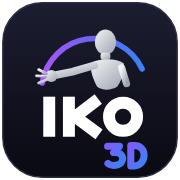
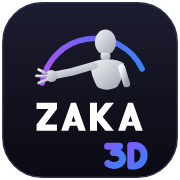
Rename IKO 3D to Zaka 3D
Everywhere the name is shown: page titles and social cards, the
header, landing, privacy, terms and 404 pages, the cookie notice, the
WebGL message, export metadata (glTF scene and clip names, the STL
header), the MCP server's text, README and docs.

Logo: ZAKA drawn as filled shapes in the master SVG
(public/brand/zaka-logo.svg, was iko-logo.svg); the app icons and
header PNGs are rendered from it. public/og.jpg keeps its sketch, with
the new logo, name and tagline.

Unchanged on purpose: storage keys (iko3d-*, iko-cookie-consent), env
vars (IKO_BLENDER, IKO_AUTORIG) and the X-IKO-Rig header. Renaming
them would lose every device's saved sculptures, creatures and
settings, and the server's configuration. public/brand/IKO.jpeg (the
original artwork, unused) is kept.

Changed region(s): [[0.1944, 0.5278, 0.8056, 0.7778]]

diff --git a/app/terms/page.tsx b/app/terms/page.tsx
@@ -2,16 +2,16 @@ import type { Metadata } from "next";
 import Link from "next/link";
 
 export const metadata: Metadata = {
-  title: "Terms of use — IKO 3D",
+  title: "Terms of use — Zaka 3D",
   description:
-    "The terms for using IKO 3D: a free, no-account browser studio for lighting, posing and animating 3D characters.",
+    "The terms for using Zaka 3D: a free, no-account browser studio for lighting, posing and animating 3D characters.",
 };
 
 export default function TermsPage() {
   return (
     <main className="min-h-dvh bg-ink-950 text-ink-100">
       <div className="mx-auto max-w-3xl px-4 py-12 sm:px-6">
-        <p className="text-sm font-medium text-accent">IKO 3D</p>
+        <p className="text-sm font-medium text-accent">Zaka 3D</p>
         <h1 className="mt-2 text-3xl font-semibold">Terms of use</h1>
         <p className="mt-2 text-sm text-ink-400">
           Last updated: 16 November 2026
@@ -19,7 +19,7 @@ export default function TermsPage() {
 
         <section className="mt-8 space-y-4 text-base leading-relaxed text-ink-300">
           <p>
-            IKO 3D is a free, no-account studio for lighting, posing, and
+            Zaka 3D is a free, no-account studio for lighting, posing, and
             animating 3D characters in your browser. By using it, you agree to
             these terms.
           </p>
@@ -28,7 +28,7 @@ export default function TermsPage() {
             The service
           </h2>
           <p>
-            IKO 3D is provided &ldquo;as is&rdquo;, without warranties of any
+            Zaka 3D is provided &ldquo;as is&rdquo;, without warranties of any
             kind. It runs entirely in your browser: there is no backend storing
             your work, so we cannot recover a scene you lose, and the service
             may change or stop at any time.
@@ -50,10 +50,10 @@ export default function TermsPage() {
             Acceptable use
           </h2>
           <p>
-            Don&apos;t use IKO 3D to break the law, to harass or deceive anyone,
-            or to interfere with the service for others. Share links reproduce
-            the scene they carry, so don&apos;t share a link to content you
-            don&apos;t want others to see.
+            Don&apos;t use Zaka 3D to break the law, to harass or deceive
+            anyone, or to interfere with the service for others. Share links
+            reproduce the scene they carry, so don&apos;t share a link to
+            content you don&apos;t want others to see.
           </p>
 
           <h2 className="pt-4 text-xl font-semibold text-ink-100">
@@ -73,7 +73,7 @@ export default function TermsPage() {
           </Link>
           {" · "}
           <Link href="/" className="hover:text-ink-100 hover:underline">
-            Back to IKO 3D
+            Back to Zaka 3D
           </Link>
         </p>
       </div>

diff --git a/app/page.tsx b/app/page.tsx
@@ -7,11 +7,11 @@ import { ProcessVideo } from "@/components/landing/ProcessVideo";
 import { studioRedirectTarget } from "@/lib/studio/landing-redirect";
 
 export const metadata: Metadata = {
-  title: "IKO 3D — Light, pose and animate 3D characters",
+  title: "Zaka 3D — Light, pose and animate 3D characters",
   description:
     "A studio for lighting, posing and animating 3D figures. Real Three.js light, presets a photographer would recognise, and share links that reproduce the whole scene. No accounts, no uploads, nothing to install.",
   openGraph: {
-    title: "IKO 3D — Light, pose and animate 3D characters",
+    title: "Zaka 3D — Light, pose and animate 3D characters",
     description:
       "Light, pose and animate 3D characters — right in your browser.",
     images: [
@@ -19,7 +19,7 @@ export const metadata: Metadata = {
         url: "/og.jpg",
         width: 1200,
         height: 630,
-        alt: "IKO 3D — light, pose and animate 3D characters in your browser",
+        alt: "Zaka 3D — light, pose and animate 3D characters in your browser",
       },
     ],
   },
@@ -71,13 +71,13 @@ export default async function LandingPage({
         <header className="flex items-center gap-2 py-4">
           {/* eslint-disable-next-line @next/next/no-img-element -- a 28 px static logo */}
           <img
-            src="/brand/iko-logo-128.png"
+            src="/brand/zaka-logo-128.png"
             alt=""
             width={28}
             height={28}
             className="h-7 w-7 shrink-0"
           />
-          <span className="text-sm font-semibold">IKO 3D</span>
+          <span className="text-sm font-semibold">Zaka 3D</span>
           <nav aria-label="Sections" className="ml-auto flex gap-4 text-sm">
             <Link
               href="/sculpt"
@@ -99,7 +99,7 @@ export default async function LandingPage({
           className="grid items-center gap-8 py-8 sm:py-12 lg:grid-cols-2"
         >
           <div>
-            <p className="text-sm font-medium text-accent">IKO 3D</p>
+            <p className="text-sm font-medium text-accent">Zaka 3D</p>
             <h1
               id="landing-hero"
               className="mt-2 text-3xl font-semibold leading-tight sm:text-4xl"
@@ -224,7 +224,7 @@ export default async function LandingPage({
 
         <footer className="border-t border-ink-800 py-8 text-sm text-ink-400">
           <p>
-            IKO 3D — no accounts, no backend, free. The pose finder runs
+            Zaka 3D — no accounts, no backend, free. The pose finder runs
             entirely in your browser.
           </p>
           <p className="mt-2">

diff --git a/mcp/server.ts b/mcp/server.ts
@@ -1,4 +1,4 @@
-/** IKO 3D's MCP server: lets an AI (Claude, or a local model in an
+/** Zaka 3D's MCP server: lets an AI (Claude, or a local model in an
  * MCP client) read and direct a studio scene with the studio's own
  * actions. Speaks MCP over stdio; started by the client with
  * `node mcp/start.mjs` (see docs/mcp-server.md).
@@ -21,7 +21,7 @@ import { callTool, listTools, type ToolContext } from "./tools";
 
 const ROOT = join(dirname(fileURLToPath(import.meta.url)), "..");
 
-export const INSTRUCTIONS = `You are directing a scene in IKO 3D, a 3D studio for lighting, posing and animating figures.
+export const INSTRUCTIONS = `You are directing a scene in Zaka 3D, a 3D studio for lighting, posing and animating figures.
 Start with "scene" to see what's there. "catalog" lists ids (lighting presets, poses, moves, joints, materials, backdrops, characters). "find_motion" turns words into a move. "direct" writes a figure's performance as beats, one per line; "act" applies any studio action. Every change is an undo step ("undo", "history").
 Distances are metres on a floor from -3 to 3: x runs left to right as the camera sees it, z towards the camera. Rotation 0 faces the camera, 90 faces +x (right), -90 faces -x, 180 faces away. The default view frames about x -1 to 1. A move that travels takes the figure with it (find_motion says how far; the scene says where each figure ends): leave room. Joint angles are degrees from the A-pose.
 When the scene is ready, "share_link" gives a link that opens it in the studio: give it to the person.
@@ -57,7 +57,7 @@ export async function main() {
   const pkg = JSON.parse(await readFile(join(ROOT, "package.json"), "utf8"));
 
   const server = new Server(
-    { name: "iko3d-studio", title: "IKO 3D studio", version: pkg.version },
+    { name: "iko3d-studio", title: "Zaka 3D studio", version: pkg.version },
     { capabilities: { tools: {} }, instructions: INSTRUCTIONS },
   );
   const tools = listTools();
@@ -77,6 +77,6 @@ export async function main() {
 
   await server.connect(new StdioServerTransport());
   console.error(
-    `IKO 3D MCP server ready: ${tools.length} tools, links to ${ctx.studioUrl}`,
+    `Zaka 3D MCP server ready: ${tools.length} tools, links to ${ctx.studioUrl}`,
   );
 }

diff --git a/app/privacy/page.tsx b/app/privacy/page.tsx
@@ -2,16 +2,16 @@ import type { Metadata } from "next";
 import Link from "next/link";
 
 export const metadata: Metadata = {
-  title: "Privacy policy — IKO 3D",
+  title: "Privacy policy — Zaka 3D",
   description:
-    "How IKO 3D handles your data: everything stays on your device, no accounts, no uploads, and analytics only with your consent.",
+    "How Zaka 3D handles your data: everything stays on your device, no accounts, no uploads, and analytics only with your consent.",
 };
 
 export default function PrivacyPage() {
   return (
     <main className="min-h-dvh bg-ink-950 text-ink-100">
       <div className="mx-auto max-w-3xl px-4 py-12 sm:px-6">
-        <p className="text-sm font-medium text-accent">IKO 3D</p>
+        <p className="text-sm font-medium text-accent">Zaka 3D</p>
         <h1 className="mt-2 text-3xl font-semibold">Privacy policy</h1>
         <p className="mt-2 text-sm text-ink-400">
           Last updated: 16 November 2026
@@ -19,7 +19,7 @@ export default function PrivacyPage() {
 
         <section className="mt-8 space-y-4 text-base leading-relaxed text-ink-300">
           <p>
-            IKO 3D is a creative tool that runs entirely in your browser. There
+            Zaka 3D is a creative tool that runs entirely in your browser. There
             are no accounts, no sign-in, no backend, and nothing you make is
             uploaded to a server.
           </p>
@@ -58,7 +58,7 @@ export default function PrivacyPage() {
 
           <h2 className="pt-4 text-xl font-semibold text-ink-100">Cookies</h2>
           <p>
-            IKO 3D sets no cookies itself. Your cookie-consent choice is
+            Zaka 3D sets no cookies itself. Your cookie-consent choice is
             remembered in your browser&apos;s local storage, not in a cookie.
           </p>
 
@@ -79,7 +79,7 @@ export default function PrivacyPage() {
           </Link>
           {" · "}
           <Link href="/" className="hover:text-ink-100 hover:underline">
-            Back to IKO 3D
+            Back to Zaka 3D
           </Link>
         </p>
       </div>

diff --git a/app/layout.tsx b/app/layout.tsx
@@ -12,33 +12,33 @@ const inter = Inter({
 });
 
 const description =
-  "IKO 3D: light, pose and animate 3D mannequins in the browser. Studio lights and presets, typed poses and moves, keyframes, share links, image and video export.";
+  "Zaka 3D: light, pose and animate 3D mannequins in the browser. Studio lights and presets, typed poses and moves, keyframes, share links, image and video export.";
 
 export const metadata: Metadata = {
   // Placeholder until the real Vercel URL is known (R-15); set via
   // NEXT_PUBLIC_SITE_URL. Never a guessed URL.
   metadataBase: new URL(siteUrl),
-  title: "IKO 3D",
+  title: "Zaka 3D",
   description,
   openGraph: {
-    title: "IKO 3D — Light, pose and animate 3D characters",
+    title: "Zaka 3D — Light, pose and animate 3D characters",
     description:
       "Light, pose and animate 3D characters — right in your browser.",
     url: siteUrl,
-    siteName: "IKO 3D",
+    siteName: "Zaka 3D",
     type: "website",
     images: [
       {
         url: "/og.jpg",
         width: 1200,
         height: 630,
-        alt: "IKO 3D — light, pose and animate 3D characters in your browser",
+        alt: "Zaka 3D — light, pose and animate 3D characters in your browser",
       },
     ],
   },
   twitter: {
     card: "summary_large_image",
-    title: "IKO 3D — Light, pose and animate 3D characters",
+    title: "Zaka 3D — Light, pose and animate 3D characters",
     description:
       "Light, pose and animate 3D characters — right in your browser.",
     images: ["/og.jpg"],

diff --git a/mcp/tools.ts b/mcp/tools.ts
@@ -328,7 +328,7 @@ const STUDIO_TOOLS: Tool[] = [
     name: "share_link",
     title: "Link to open the scene in the studio",
     description:
-      "A link that opens this scene in the IKO 3D studio, with its animation when it fits in a link. Give it to the person to see the result.",
+      "A link that opens this scene in the Zaka 3D studio, with its animation when it fits in a link. Give it to the person to see the result.",
     input: z.object({}),
     readOnly: true,
     run: async (session, _args, ctx) => {
@@ -346,7 +346,7 @@ const STUDIO_TOOLS: Tool[] = [
     name: "open_link",
     title: "Open a studio share link",
     description:
-      "Load a scene from an IKO 3D share link (the whole URL, or its s= value), as one undo step.",
+      "Load a scene from an Zaka 3D share link (the whole URL, or its s= value), as one undo step.",
     input: z.object({ link: z.string().trim().min(1).max(20000) }),
     run: async (session, { link }) => {
       let param: string | null = link;

diff --git a/components/CookieConsent.tsx b/components/CookieConsent.tsx
@@ -94,7 +94,7 @@ export default function CookieConsent() {
               Cookie preferences
             </p>
             <p className="mt-1 text-sm leading-relaxed text-ink-300">
-              IKO 3D sets no cookies itself. The only optional tracker is
+              Zaka 3D sets no cookies itself. The only optional tracker is
               Plausible analytics — cookieless, no cross-site tracking — and it
               loads only if you switch it on below.
             </p>
@@ -129,7 +129,7 @@ export default function CookieConsent() {
         ) : (
           <>
             <p className="text-sm leading-relaxed text-ink-100">
-              IKO 3D sets no cookies itself. We use Plausible — cookieless
+              Zaka 3D sets no cookies itself. We use Plausible — cookieless
               analytics with no cross-site tracking — only if you accept.{" "}
               <a href="/privacy" className="text-accent underline">
                 Privacy policy

diff --git a/components/WorkspaceNav.tsx b/components/WorkspaceNav.tsx
@@ -63,21 +63,21 @@ export function BrandLink() {
   return (
     <Link
       href="/"
-      aria-label="IKO 3D home"
+      aria-label="Zaka 3D home"
       title="Home"
       className="flex shrink-0 items-center gap-2 rounded-md p-0.5 hover:bg-ink-800"
       data-testid="nav-home"
     >
       {/* eslint-disable-next-line @next/next/no-img-element -- a 28 px static logo */}
       <img
-        src="/brand/iko-logo-128.png"
+        src="/brand/zaka-logo-128.png"
         alt=""
         width={28}
         height={28}
         className="h-7 w-7"
       />
       <span className="hidden text-sm font-semibold tracking-tight text-ink-100 lg:inline">
-        IKO 3D
+        Zaka 3D
       </span>
     </Link>
   );

diff --git a/app/studio/page.tsx b/app/studio/page.tsx
@@ -2,9 +2,9 @@ import type { Metadata } from "next";
 import { LightingStudio } from "@/components/studio/LightingStudio";
 
 export const metadata: Metadata = {
-  title: "Studio — IKO 3D",
+  title: "Studio — Zaka 3D",
   description:
-    "The IKO 3D studio: light, pose and animate 3D mannequins in the browser. Studio lights and presets, typed poses and moves, keyframes, share links, image and video export.",
+    "The Zaka 3D studio: light, pose and animate 3D mannequins in the browser. Studio lights and presets, typed poses and moves, keyframes, share links, image and video export.",
 };
 
 export default function StudioPage() {

diff --git a/lib/engine/gltfExport.ts b/lib/engine/gltfExport.ts
@@ -137,7 +137,7 @@ export async function exportGlb(
   opts: GlbOptions,
 ): Promise<GlbResult> {
   const scene = new THREE.Scene();
-  scene.name = "IKO 3D";
+  scene.name = "Zaka 3D";
   /** Live object → its clone in the file, for the animation. */
   const pairs: Array<[THREE.Object3D, THREE.Object3D]> = [];
   for (const f of src.figures) {
@@ -273,7 +273,7 @@ export async function exportGlb(
     }
     if (tracks.length)
       animations.push(
-        new THREE.AnimationClip("IKO 3D animation", times[frames - 1], tracks),
+        new THREE.AnimationClip("Zaka 3D animation", times[frames - 1], tracks),
       );
   }
 

diff --git a/app/sculpt/page.tsx b/app/sculpt/page.tsx
@@ -2,9 +2,9 @@ import type { Metadata } from "next";
 import { SculptStudio } from "@/components/sculpt/SculptStudio";
 
 export const metadata: Metadata = {
-  title: "Sculpt — IKO 3D",
+  title: "Sculpt — Zaka 3D",
   description:
-    "Sculpt digital clay in the browser with IKO 3D: draw, clay, inflate, smooth, flatten, pinch and grab brushes, symmetry, pen pressure, and STL export for 3D printing.",
+    "Sculpt digital clay in the browser with Zaka 3D: draw, clay, inflate, smooth, flatten, pinch and grab brushes, symmetry, pen pressure, and STL export for 3D printing.",
 };
 
 export default function SculptPage() {

diff --git a/components/studio/StudioViewport.tsx b/components/studio/StudioViewport.tsx
@@ -464,7 +464,7 @@ export function StudioViewport({
           className="absolute inset-x-3 top-3 mx-auto max-w-sm rounded-lg border border-danger/40 bg-ink-900/95 p-3 text-xs text-ink-200 shadow-lg"
         >
           {status === "unsupported"
-            ? "3D could not start in this browser. IKO 3D needs WebGL — try an up-to-date Chrome, Safari, Edge or Firefox."
+            ? "3D could not start in this browser. Zaka 3D needs WebGL — try an up-to-date Chrome, Safari, Edge or Firefox."
             : message}
           {status === "error" && (
             <button
